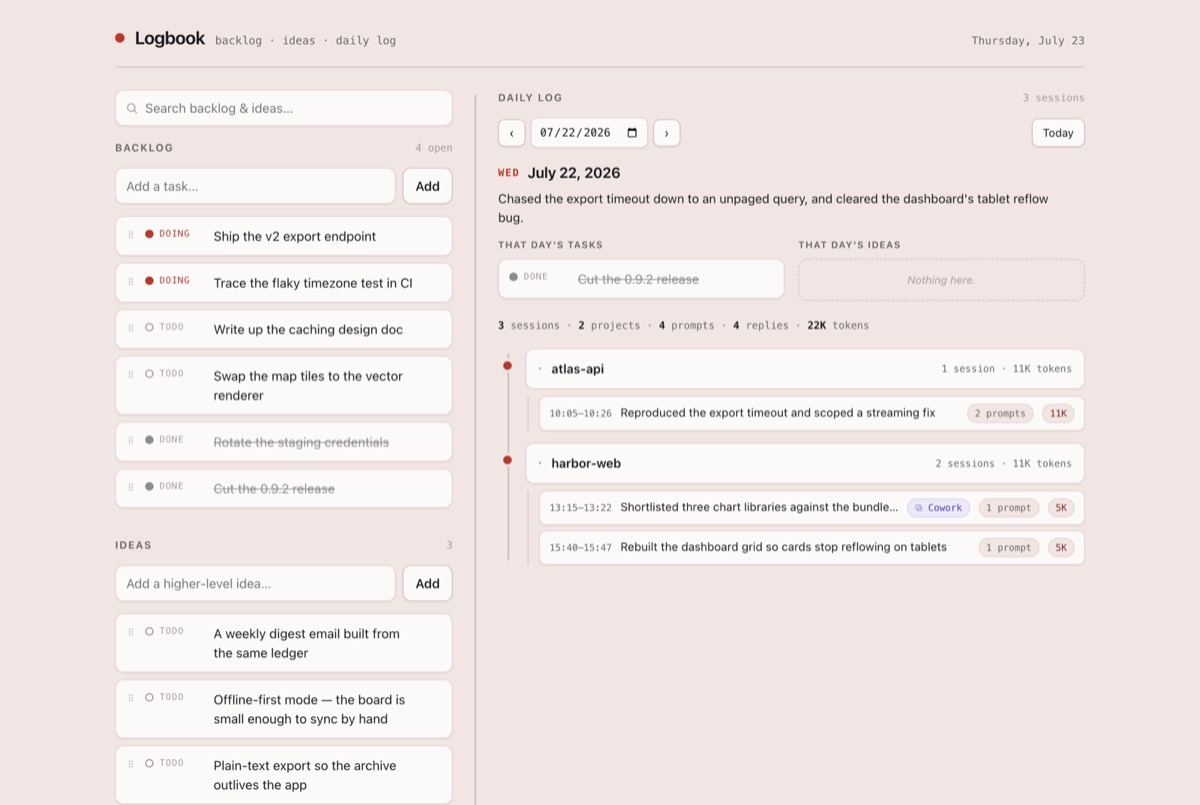
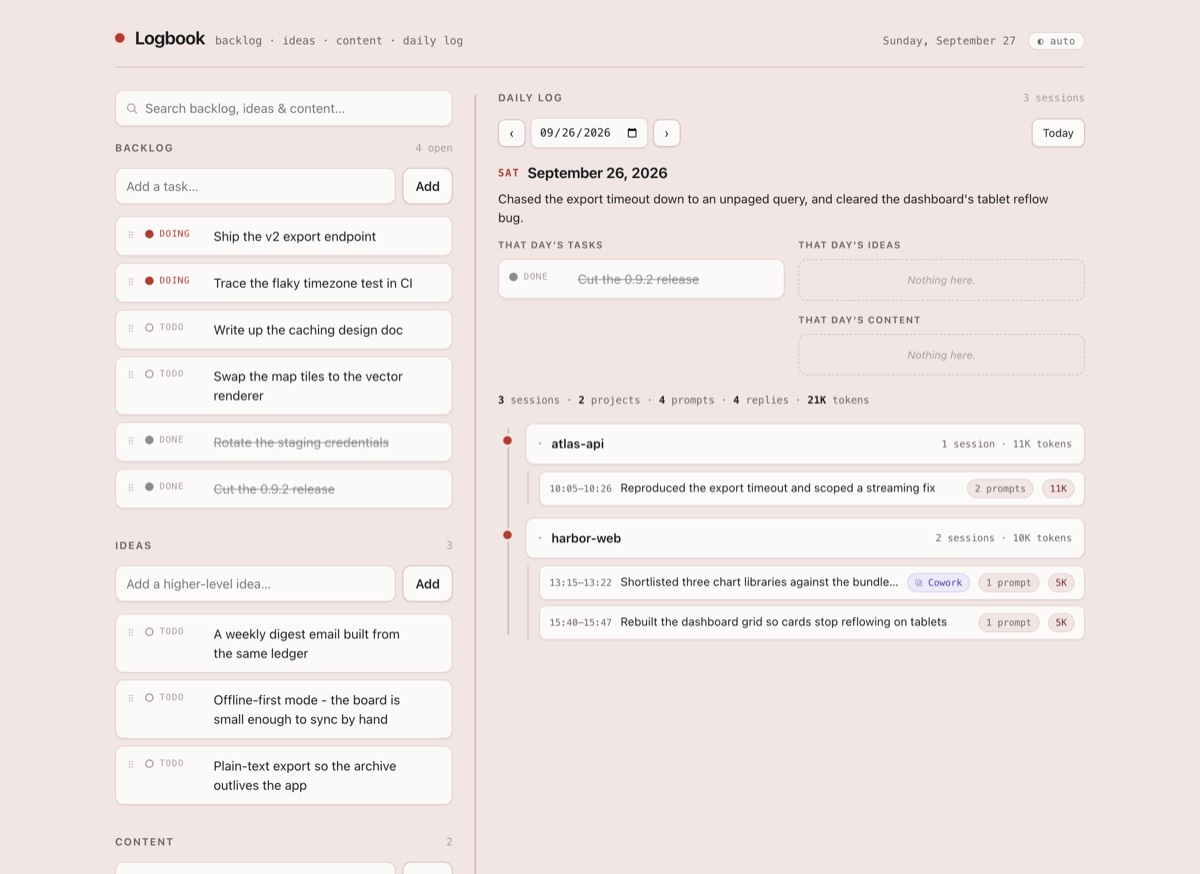
Refresh Logbook screenshots and homepage tile
Regenerated from current Logbook main on synthetic data. The today shot
no longer shows a day summary (the app never writes one for the day in
progress); the past-day shot keeps one. New shots are 1200x874.

Claude-Session: https://claude.ai/code/session_01AYJfHuGxEWCRdBrZH2ZJdw

diff --git a/public/projects/logbook/index.html b/public/projects/logbook/index.html
@@ -23,11 +23,11 @@
   <h1 class="with-icon"><img src="icon.png" alt="" width="48" height="48">Logbook</h1>
   <p>As I hit my stride with my plethora of Claude projects, I started generating a ton of additional ideas, both big and little. I decided to build my own hyper-personalized lightweight task tracker instead of using an off-the-shelf solution. Claude named it the Logbook and generated a cute icon (I was also inspired by the <a href="https://lilianweng.github.io/">Lil'Log</a> blog). Cards fall into Tasks (small) and Ideas (big). They can only be dragged into the current day, and any unfinished work falls back to the top of the pile. The Logbook summarizes all of your Claude sessions (both Code and Cowork) and then produces a brief daily summary. There's no obligation for the cards and sessions to match, because I want it to be fun, not something where I waste my limited time linking issues and feeling guilty when I forget.</p>
 
-  <figure class="shot"><img src="deck.jpg" alt="Logbook with a backlog and ideas list on the left and the day's Claude Code sessions on the right" width="1200" height="805" loading="lazy"><figcaption>Today: the lists, the day's focus, and the session ledger</figcaption></figure>
+  <figure class="shot"><img src="deck.jpg" alt="Logbook with a backlog and ideas list on the left and the day's Claude Code sessions on the right" width="1200" height="874" loading="lazy"><figcaption>Today: the lists, the day's focus, and the session ledger</figcaption></figure>
 
   <p>Some fun learnings: Initially, the daily summaries were surprisingly critical (I don't need Claude to shame me for using fewer tokens than the day before!). Also, Claude is bad at assessing what work is more or less important, and frequently centered its daily summaries on one-liner throwaway sessions. I calibrated the summaries to skew positive and focus on completion of bigger projects and clear wins.</p>
 
-  <figure class="shot"><img src="archive.jpg" alt="Logbook showing a previous day with its summary, finished work and session ledger" width="1200" height="805" loading="lazy"><figcaption>Any past day: its summary, finished work and ledger</figcaption></figure>
+  <figure class="shot"><img src="archive.jpg" alt="Logbook showing a previous day with its summary, finished work and session ledger" width="1200" height="874" loading="lazy"><figcaption>Any past day: its summary, finished work and ledger</figcaption></figure>
 
   <p>Current limitations: Local machine-only, Claude-only</p>
   <p>Logbook is open source under the MIT license: <a href="https://github.com/magratheazaphod/logbook">github.com/magratheazaphod/logbook</a>.</p>
